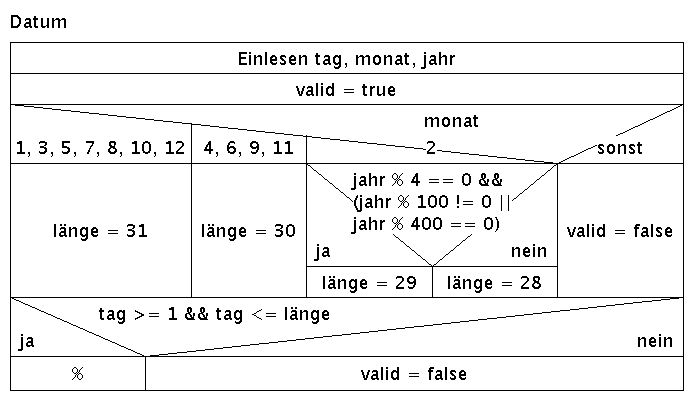
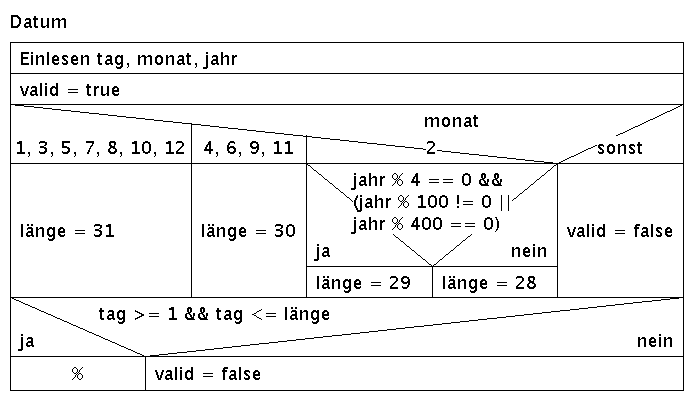
Align block and infinite loop to the left.

diff --git a/src/eu/greenlightning/nsdg/elements/InfiniteLoop.java b/src/eu/greenlightning/nsdg/elements/InfiniteLoop.java
@@ -23,15 +23,15 @@ public class InfiniteLoop implements Element {
 	@Override
 	public int getWidth(Graphics2D g) {
 		int max = 0;
-		max = Math.max(max, top.getWidth(g) + 20);
-		max = Math.max(max, side.getWidth(g) + 20 + child.getWidth(g));
-		max = Math.max(max, bottom.getWidth(g) + 20);
+		max = Math.max(max, 10 + top.getWidth(g) + 10);
+		max = Math.max(max, 10 + side.getWidth(g) + 10 + child.getWidth(g));
+		max = Math.max(max, 10 + bottom.getWidth(g) + 10);
 		return max;
 	}
 
 	@Override
 	public int getHeight(Graphics2D g) {
-		int middle = Math.max(side.getHeight(g) + 10, child.getHeight(g));
+		int middle = Math.max(5 + side.getHeight(g) + 5, child.getHeight(g));
 		return 5 + top.getHeight(g) + 5 + middle + 5 + bottom.getHeight(g) + 5;
 	}
 
@@ -44,11 +44,9 @@ public class InfiniteLoop implements Element {
 		int bottomHeight = (int) (bottomPercentage * height);
 		int sideWidth = (int) (sidePercentage * width);
 		g.drawRect(0, 0, width - 1, height - 1);
-		top.paint(g, (width - top.getWidth(g)) / 2, (topHeight - top.getHeight(g)) / 2);
-		side.paint(g, (sideWidth - side.getWidth(g)) / 2, topHeight
-			+ (height - topHeight - bottomHeight - side.getHeight(g)) / 2);
-		bottom.paint(g, (width - bottom.getWidth(g)) / 2, height - bottomHeight
-			+ (bottomHeight - bottom.getHeight(g)) / 2);
+		top.paint(g, 10, (topHeight - top.getHeight(g)) / 2);
+		side.paint(g, 10, topHeight + (height - topHeight - bottomHeight - side.getHeight(g)) / 2);
+		bottom.paint(g, 10, height - bottomHeight + (bottomHeight - bottom.getHeight(g)) / 2);
 		g.translate(sideWidth, topHeight);
 		child.paint(g, width - sideWidth, height - topHeight - bottomHeight + 1);
 		g.translate(-sideWidth, -topHeight);

diff --git a/src/eu/greenlightning/nsdg/elements/Empty.java b/src/eu/greenlightning/nsdg/elements/Empty.java
@@ -3,27 +3,16 @@ package eu.greenlightning.nsdg.elements;
 import java.awt.Color;
 import java.awt.Graphics2D;
 
-public class Procedure extends Block {
+public class Empty extends Block {
 
-	public Procedure(String text) {
-		super(text);
-	}
-
-	public Procedure(Text text) {
-		super(text);
-	}
-
-	@Override
-	public int getWidth(Graphics2D g) {
-		return 10 + super.getWidth(g) + 10;
+	public Empty() {
+		super("%");
 	}
 
 	@Override
 	public void paint(Graphics2D g, int width, int height) {
 		g.setColor(Color.BLACK);
 		g.drawRect(0, 0, width - 1, height - 1);
-		g.drawLine(10, 0, 10, height - 1);
-		g.drawLine(width - 11, 0, width - 11, height - 1);
 		int x = (width - text.getWidth(g)) / 2;
 		int y = (height - text.getHeight(g)) / 2;
 		text.paint(g, x, y);

diff --git a/src/eu/greenlightning/nsdg/elements/Block.java b/src/eu/greenlightning/nsdg/elements/Block.java
@@ -7,10 +7,6 @@ public class Block implements Element {
 
 	protected final Text text;
 
-	public Block() {
-		this("%");
-	}
-
 	public Block(String text) {
 		this(new Text(text));
 	}
@@ -33,7 +29,7 @@ public class Block implements Element {
 	public void paint(Graphics2D g, int width, int height) {
 		g.setColor(Color.BLACK);
 		g.drawRect(0, 0, width - 1, height - 1);
-		int x = (width - text.getWidth(g)) / 2;
+		int x = 10;
 		int y = (height - text.getHeight(g)) / 2;
 		text.paint(g, x, y);
 	}

diff --git a/src/eu/greenlightning/nsdg/xml/XMLParser.java b/src/eu/greenlightning/nsdg/xml/XMLParser.java
@@ -159,7 +159,7 @@ public class XMLParser implements AutoCloseable {
 	private Labelled parseLabelled(String name) throws ParserException, XMLStreamException {
 		String label = getAttribute("label");
 		startElement(name);
-		Element child = look().isStartElement() ? parseChild() : new Block();
+		Element child = look().isStartElement() ? parseChild() : new Empty();
 		endElement(name);
 		return new Labelled(label, child);
 	}

diff --git a/src/eu/greenlightning/nsdg/elements/Labelled.java b/src/eu/greenlightning/nsdg/elements/Labelled.java
@@ -8,7 +8,7 @@ public class Labelled {
 	private final Element child;
 
 	public Labelled() {
-		this("", new Block());
+		this("", new Empty());
 	}
 
 	public Labelled(String label, Element child) {
